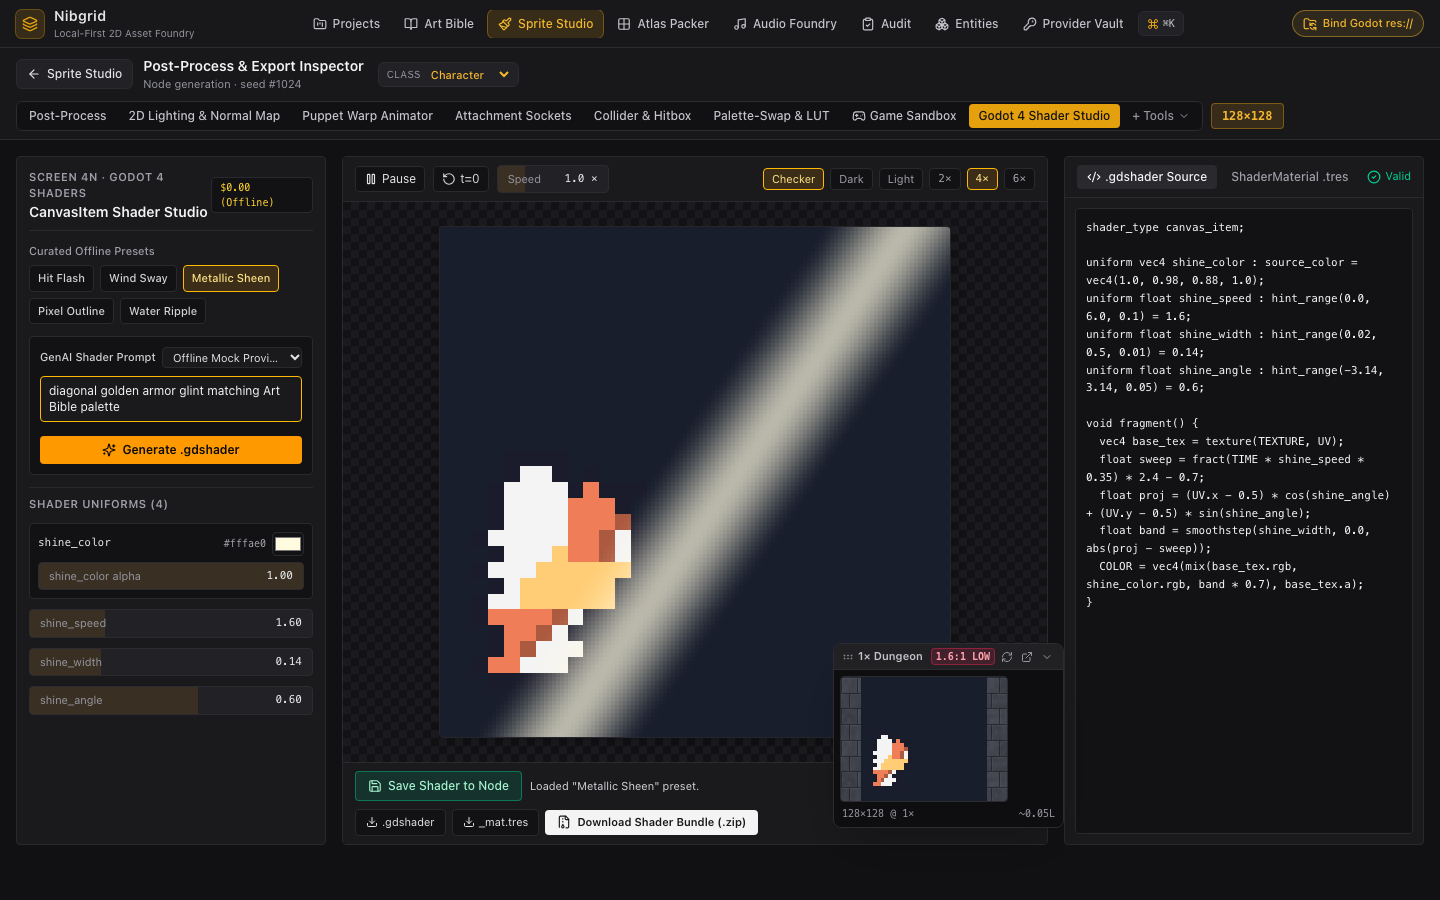
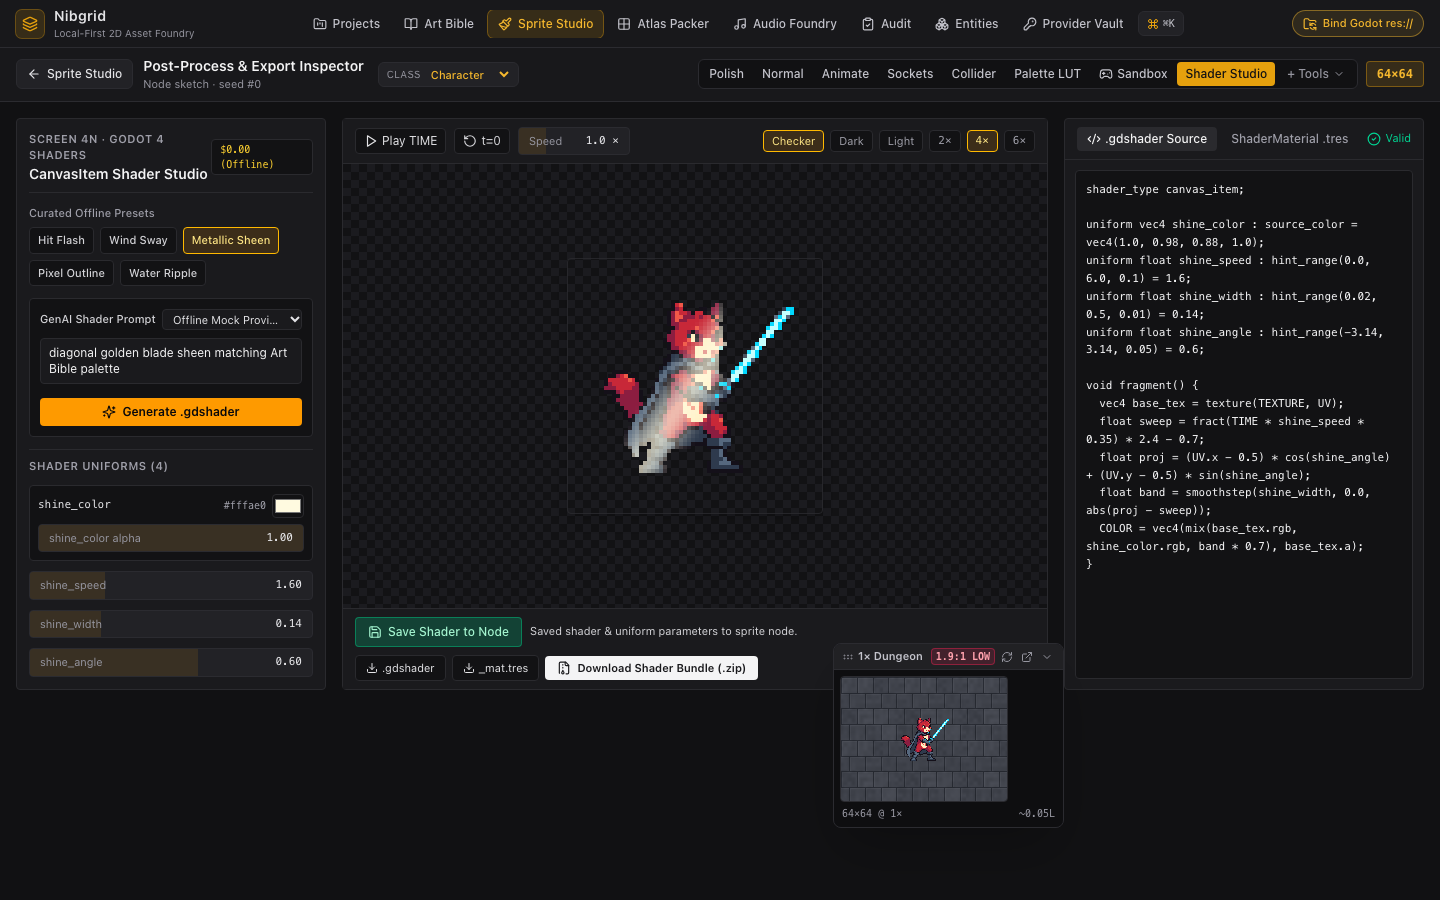
fix(ci): prevent inspector tab wrap on 1280px viewports and expand Godot 4 workflow demos in README

diff --git a/src/ui/inspector/PostProcessInspector.tsx b/src/ui/inspector/PostProcessInspector.tsx
@@ -1318,15 +1318,16 @@ export function PostProcessInspector({
                   key={tabId}
                   type="button"
                   data-testid={meta.testId}
+                  title={meta.label}
                   onClick={() => selectTab(tabId)}
-                  className={`inline-flex items-center gap-1 rounded px-2.5 py-1 font-medium transition-colors ${tabButtonStyle(
+                  className={`inline-flex items-center gap-1 rounded px-2 py-1 font-medium whitespace-nowrap transition-colors ${tabButtonStyle(
                     tabId,
                     inspectorTab === tabId,
                   )}`}
                 >
                   {tabId === 'sandbox' && <Gamepad2 className="h-3.5 w-3.5" />}
                   {tabId === 'turnaround' && <Scissors className="h-3.5 w-3.5" />}
-                  {meta.label}
+                  {meta.shortLabel}
                 </button>
               );
             })}

diff --git a/src/ui/inspector/ShaderStudio.tsx b/src/ui/inspector/ShaderStudio.tsx
@@ -1027,7 +1027,7 @@ export function ShaderStudio({
           ) : (
             <pre
               data-testid="shader-tres-preview"
-              className="h-full min-h-[260px] overflow-auto rounded border border-[#2A2A2E] bg-[#121214] p-2.5 font-mono text-[11px] leading-relaxed text-zinc-200"
+              className="h-full min-h-[260px] overflow-auto rounded border border-[#2A2A2E] bg-[#121214] p-2.5 font-mono text-[11px] leading-relaxed whitespace-pre-wrap break-words text-zinc-200"
             >
               {tresPreviewText}
             </pre>

diff --git a/tests/e2e/m19-ux-polish.spec.ts b/tests/e2e/m19-ux-polish.spec.ts
@@ -67,6 +67,7 @@ test.describe('M19: UX Polish, Studio Chrome, ScrubInput & Floating HUD', () => 
 
     // ScrubInput drag (coarse), Shift+drag (0.1x precision), double-click Enter commit & Escape cancel
     const scrub = page.getByTestId('scrub-alpha-threshold');
+    await scrub.scrollIntoViewIfNeeded();
     await expect(scrub).toHaveAttribute('data-value', '16');
     const box = await scrub.boundingBox();
     expect(box).not.toBeNull();

diff --git a/README.md b/README.md
@@ -38,6 +38,7 @@ Local-first, zero-server Bring-Your-Own-Key / Bring-Your-Own-Model (BYOK/BYOM) P
   - [2.19 Assemble Godot 4 `.tscn` Prefabs & Live `res://` Folder Sync (Entity Hub)](#219-assemble-godot-4-tscn-prefabs--live-res-folder-sync-entity-hub)
   - [2.20 Build Full Entities + Typed GDScript from One Prompt (AI Director)](#220-build-full-entities--typed-gdscript-from-one-prompt-ai-director)
   - [2.21 Author Live Godot 4 `.gdshader` & `ShaderMaterial` `.tres` FX (Screen 4N)](#221-author-live-godot-4-gdshader--shadermaterial-tres-fx-screen-4n)
+  - [2.22 End-to-End Godot 4 AI Foundry Workflow (Prompt → Shader → `res://` Sync)](#222-end-to-end-godot-4-ai-foundry-workflow-prompt--shader--res-sync)
 - [Part 3 — Engine Drop-In Integration Examples](#part-3--engine-drop-in-integration-examples)
 - [Architecture Summary](#architecture-summary)
 - [Development & Verification](#development--verification)
@@ -540,6 +541,8 @@ Once a sprite is inside **Post-Process & Export Inspector** (`Screen 4`), switch
 
 ![Prompt-to-Entity Director Blueprint Review](docs/demo/25-prompt-to-entity-director.png)
 
+![Entity Hub — Typed Godot 4.3+ GDScript Preview](docs/demo/25b-director-gdscript-preview.png)
+
 ---
 
 ### 2.21 Author Live Godot 4 `.gdshader` & `ShaderMaterial` `.tres` FX (Screen 4N)
@@ -553,7 +556,28 @@ Once a sprite is inside **Post-Process & Export Inspector** (`Screen 4`), switch
 3. Tune every parsed uniform live at 60 FPS on the WebGL2 sprite stage using auto-generated **`ScrubInput`** sliders (from Godot 4 `hint_range(min, max, step)`) and color pickers (from `source_color`), toggle **`Pause` / `t=0` / `Speed`** and **`checker` / `dark` / `light`** backdrops, or edit code directly with inline Godot 3 (`hint_color`) / GLSL syntax diagnostics.
 4. Switch to the **`ShaderMaterial .tres`** tab to inspect serialized `shader_parameter/*` overrides, click **`Save Shader to Node`** to persist across reloads and auto-attach `material = ExtResource(...)` onto `AnimatedSprite2D` during M25 `Sync to Godot`, or click **`Download Shader Bundle (.zip)`** (`<slug>.gdshader` + `<slug>_mat.tres` + `<slug>.recipe.json`).
 
-![Screen 4N — Godot 4 Shader Studio](docs/demo/26-godot-shader-studio.png)
+![Screen 4N — Godot 4 Shader Studio Live Metallic Sheen & GLSL Source](docs/demo/26-godot-shader-studio.png)
+
+![Screen 4N — Pixel Outline Shader & Serialized ShaderMaterial .tres Export](docs/demo/26b-shader-material-tres.png)
+
+---
+
+### 2.22 End-to-End Godot 4 AI Foundry Workflow (Prompt → Shader → `res://` Sync)
+
+Combining **M25 (Entity Hub + FSAA Sync)**, **M26 (Prompt-to-Entity AI Director)**, and **M27 (Shader Studio)** eliminates the manual ZIP → re-import → boilerplate scripting loop:
+
+```mermaid
+flowchart LR
+  P["1. Single Entity Prompt<br/>(M26 Director)"] --> B["Sprite + Hull + Sockets<br/>SFX + Typed .gd Script"]
+  B --> S["2. Author Shader FX<br/>(M27 Screen 4N WebGL2)"]
+  S --> M[".gdshader + _mat.tres<br/>Saved to Sprite Node"]
+  M --> G["3. Sync to Godot Pill<br/>(M25 SHA-256 Diff)"]
+  G --> R["Godot 4 res:// Hot-Reload<br/>.tscn + .gd + _mat.tres + .png.import"]
+```
+
+1. **Draft & Build (`Entities` → `+ Prompt-to-Entity (AI)`):** Generate the palette-locked sprite, convex hull collider/hurtbox/hitbox, opaque-snapped `Marker2D` sockets (`hand_r`, `muzzle`), LUFS-normalized WAV SFX cues, and typed Godot 4.3+ `.gd` controller in one pass (above: **Blueprint Review** & **`.gd Script` output**).
+2. **Attach Custom Shader FX (`Sprite Studio` → `Shader Studio`):** Open the entity's sprite in **Screen 4N**, generate or tweak `Metallic Sheen` / `Pixel Outline` / `Hit Flash` uniforms live at 60 FPS in WebGL2 (above: **`Metallic Sheen`** & **`ShaderMaterial .tres`**), and click **`Save Shader to Node`**.
+3. **1-Click `Sync to Godot` (Header Sync Pill):** Bind your local Godot 4 project folder (`Bind Godot res://`). Clicking **`Sync to Godot`** writes only changed files (`SHA-256` diffed) directly into `assets/nibgrid/<slug>/`—automatically attaching `script = ExtResource(...)` to the root `CharacterBody2D` and `material = ExtResource(...)` (`<slug>_mat.tres`) to `AnimatedSprite2D` inside `<slug>.tscn` with lossless `.png.import` sidecars ready for instant `F6` playtesting in Godot.
 
 ---
 

diff --git a/JOURNAL.md b/JOURNAL.md
@@ -522,3 +522,9 @@
 - **Navigation & Inspector Registration (`src/store/useAppStore.ts`, `src/ui/inspector/workspaceTabs.ts`, `src/ui/command/CommandPalette.tsx`):** Added `'shader'` tab (`?tab=shader`) and `act-shader-studio` command palette action, placing `Shader Studio` in primary tabs for `'character'` and `'vfx'` assets without perturbing `'ui-panel'` tab layout.
 - **Live WebGL2 Studio (`src/ui/inspector/ShaderStudio.tsx`, `src/ui/inspector/PostProcessInspector.tsx`):** Implemented Screen 4N with preset pills, AI prompt generation, auto-generated `ScrubInput` and `source_color` controls, 60 FPS WebGL2 preview (`forceReleaseWebGlContext()` disposal), `.gdshader` / `.tres` tabs with live compile diagnostics, Dexie persistence, and ZIP/individual downloads.
 - **Verification:** Added `tests/e2e/m27c-shader-studio-e2e.spec.ts` verifying Hit Flash WebGL2 rendering + uniform scrubbing, intercepted Gemini custom shader dynamic controls, syntax error inline diagnostics, `.zip` extraction (`gdshader` + `_mat.tres` + Zod-valid `recipe.json`), and reload persistence alongside live demo capture (`docs/demo/26-godot-shader-studio.png`) and full CI verification.
+
+## CI Tab-Wrap Fix & README End-to-End Godot 4 Workflow Showcase
+
+- **Inspector Tab Bar Layout (`src/ui/inspector/PostProcessInspector.tsx`, `tests/e2e/m19-ux-polish.spec.ts`):** Switched horizontal primary inspector tab buttons to `meta.shortLabel` with `whitespace-nowrap` and full `title={meta.label}` tooltip so adding `'shader'` never wraps the tab strip onto a second row on `1280×720` Linux runners, and added `scrollIntoViewIfNeeded()` before scrubbing `scrub-alpha-threshold`.
+- **CI Hardening (`.github/workflows/ci.yml`):** Added `python3 -m unittest tests/unit/test_nibgrid_bridge.py -v` to the GitHub Actions `verify` job.
+- **README Workflow Showcase (`README.md`, `docs/demo/25b-director-gdscript-preview.png`, `docs/demo/26-godot-shader-studio.png`, `docs/demo/26b-shader-material-tres.png`):** Re-captured transparent Red Cat Warrior Shader Studio (`Metallic Sheen` + `Pixel Outline` `.tres`) and Prompt-to-Entity `.gd Script` previews and documented the full M26 → M27 → M25 Godot 4 workflow.
